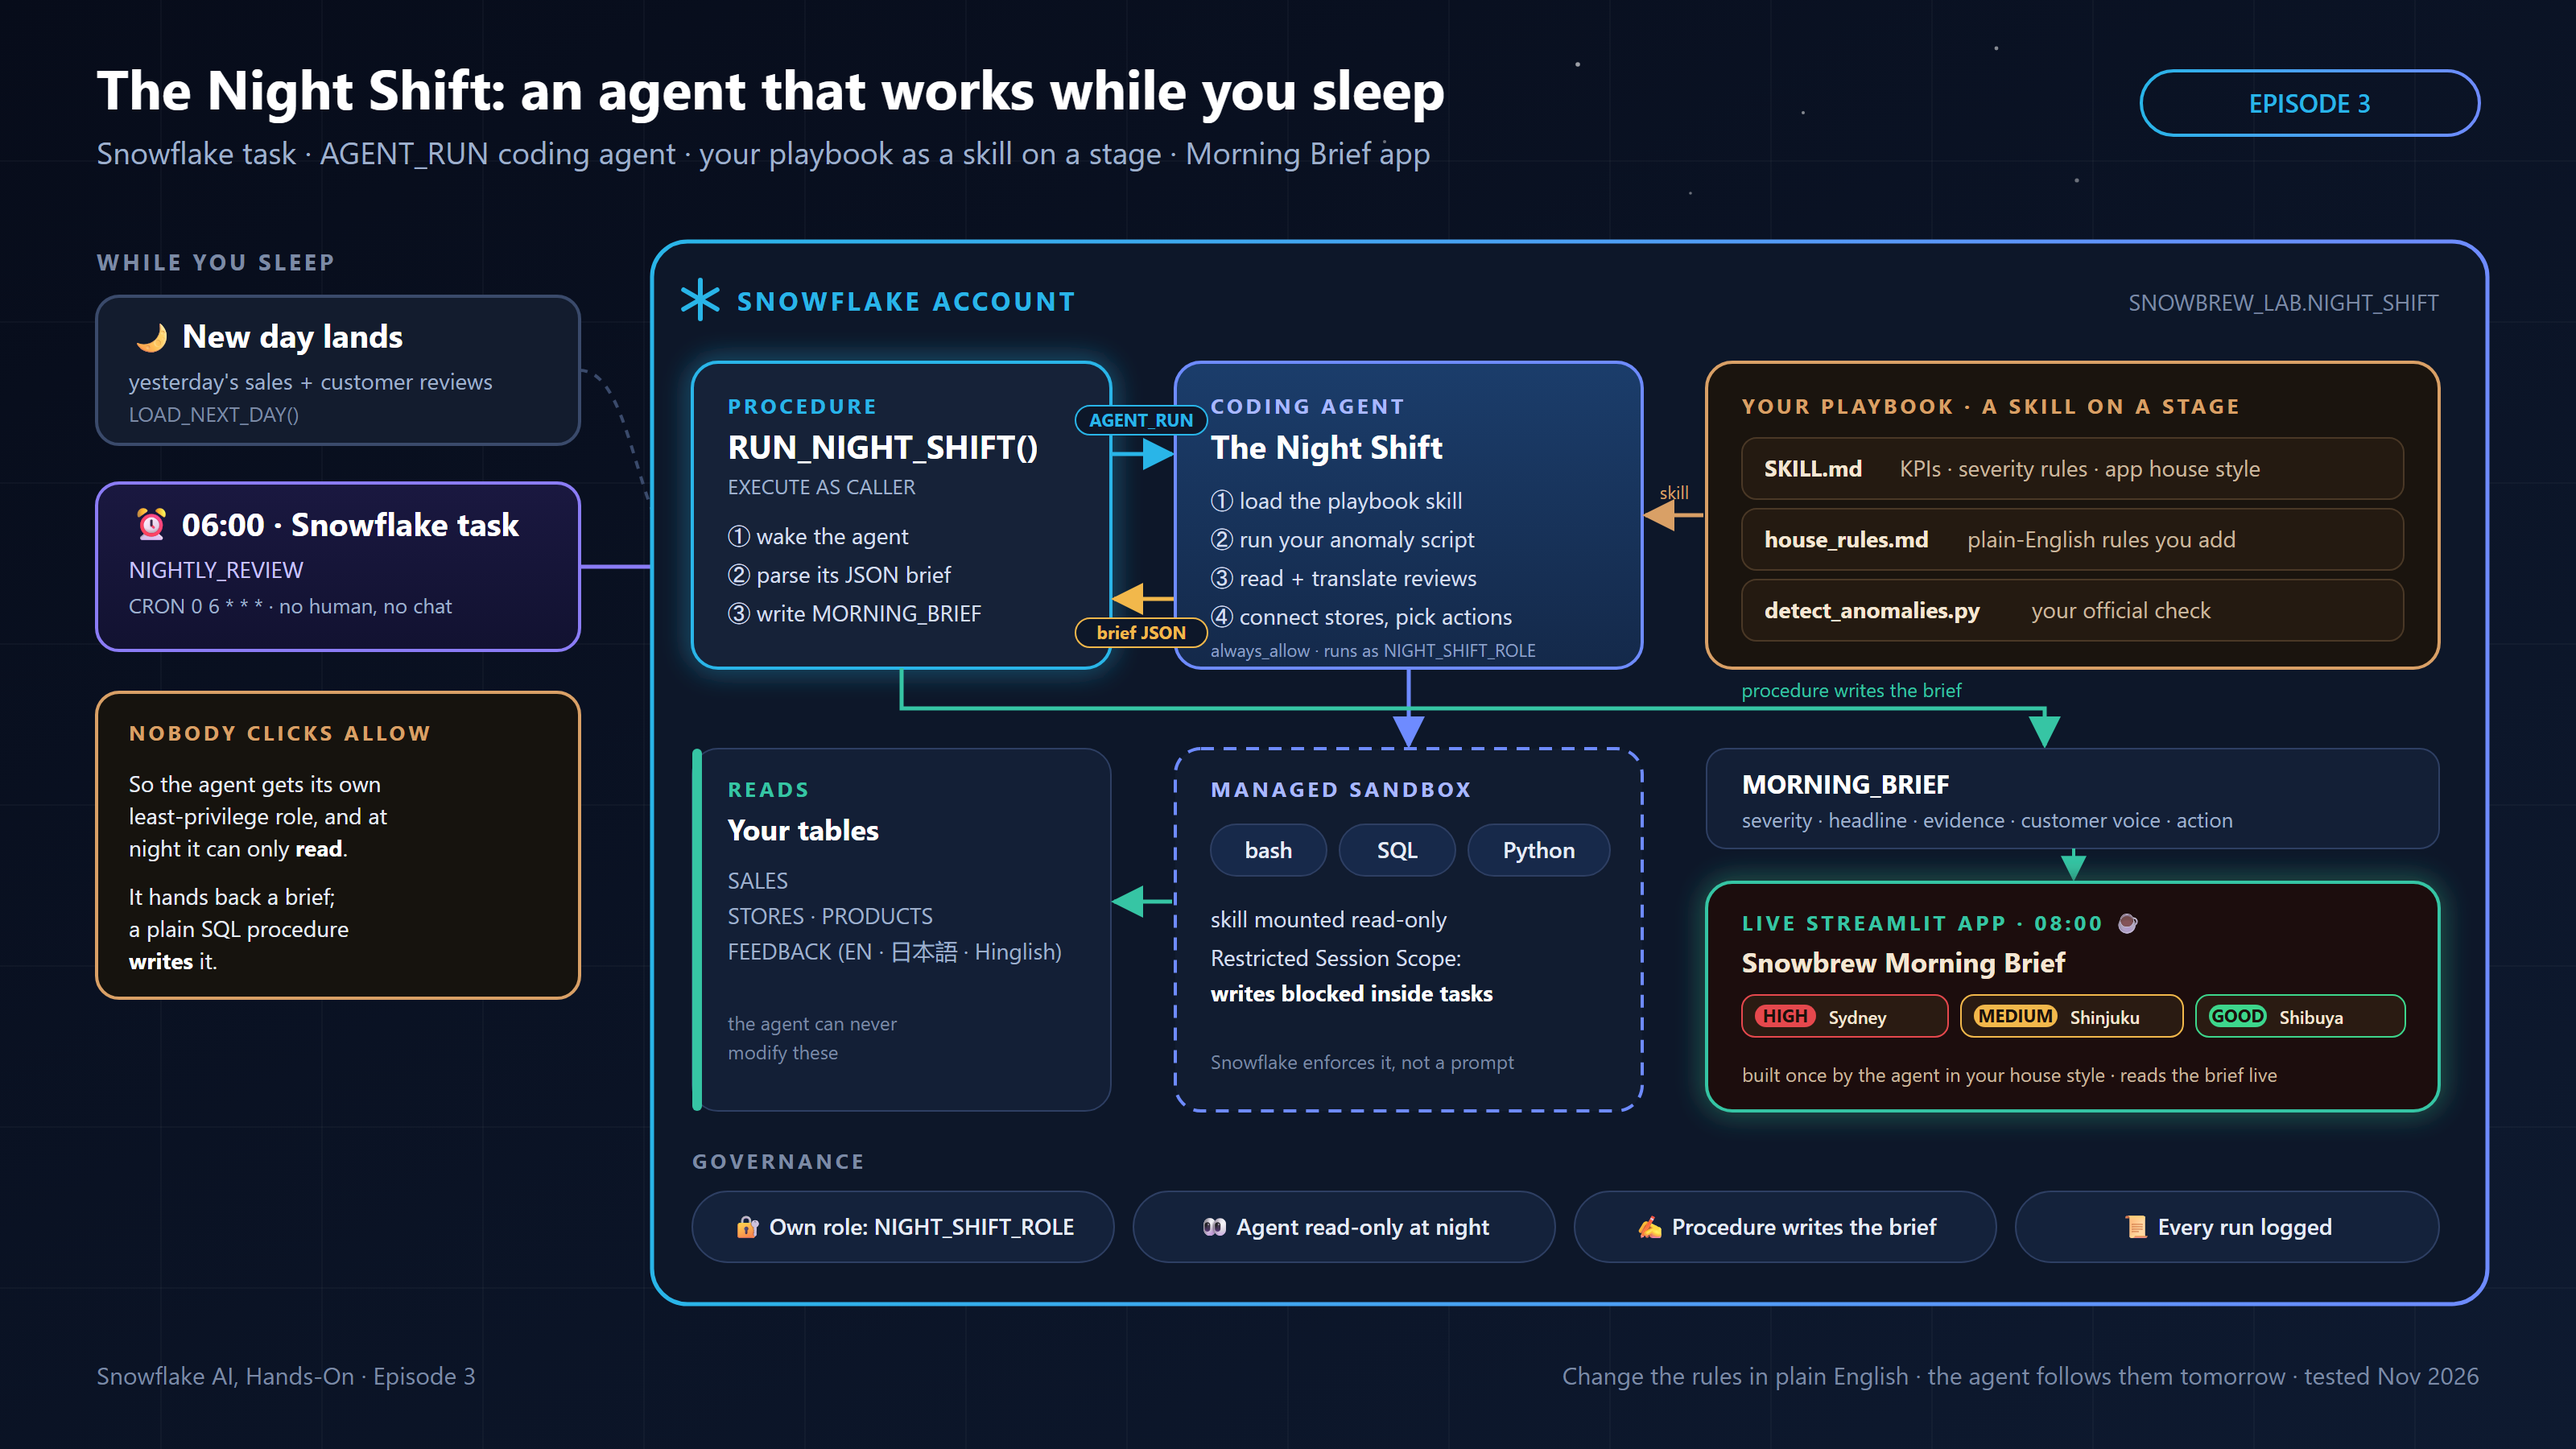
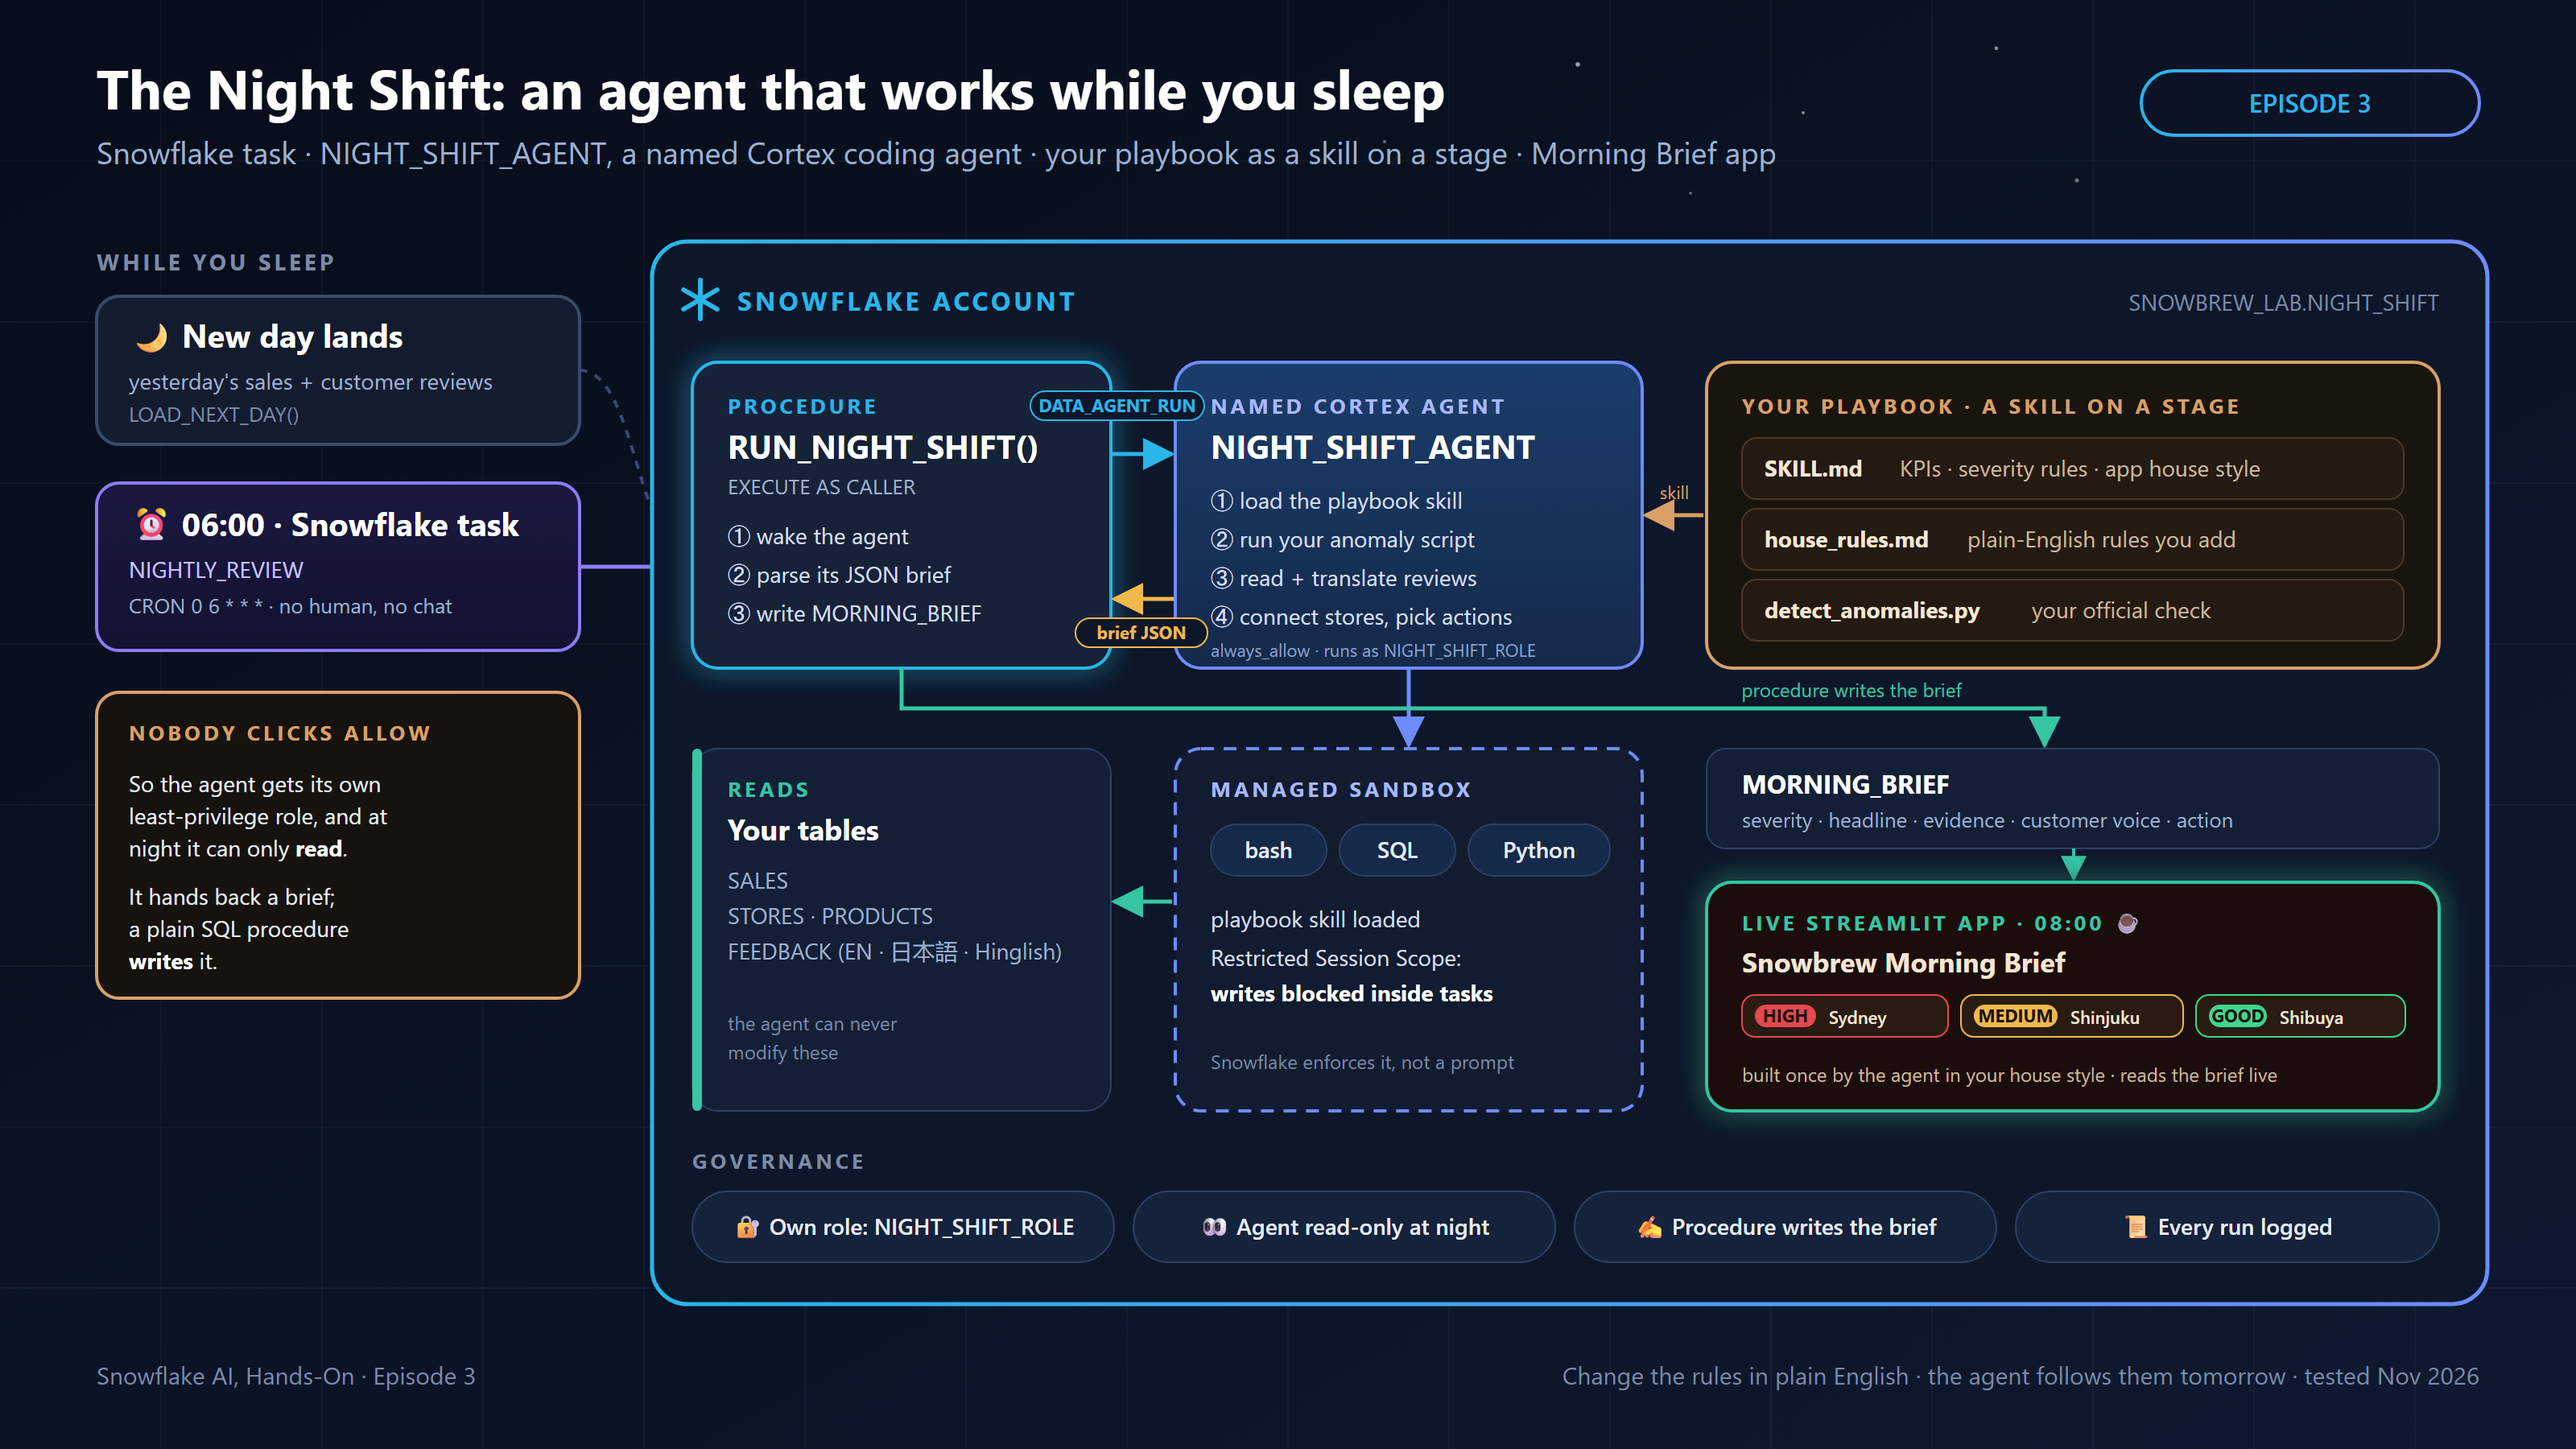
Episode 3: run the Night Shift as a named Cortex Agent (NIGHT_SHIFT_AGENT), tested end to end twice

Changed region(s): [[0.125, 0.0933, 0.6875, 0.1244], [0.4062, 0.2489, 0.5938, 0.3422], [0.4688, 0.6222, 0.5625, 0.6533]]

diff --git a/episodes/03-night-shift/README.md b/episodes/03-night-shift/README.md
@@ -1,6 +1,6 @@
 # Episode 3: The Night Shift
 
-Every night, a Snowflake task wakes up a coding agent. It follows your company **playbook**, a skill stored on a stage, and then:
+Every night, a Snowflake task wakes up `NIGHT_SHIFT_AGENT`, a named Cortex coding agent. It follows your company **playbook**, a skill stored on a stage, and then:
 1. checks the new day with your own anomaly script;
 2. investigates what moved, connecting stores and translating reviews;
 3. writes a morning brief with owners and deadlines;
@@ -14,7 +14,7 @@ There's no chat and nobody clicking: it runs under a locked-down role.
 
 | File | Run where | What it does |
 |---|---|---|
-| [`setup.sql`](setup.sql) | Snowsight worksheet → **Run All** (~2-3 min) | Creates the data, the playbook skill (`SKILL.md` + `detect_anomalies.py`) on a stage, `NIGHT_SHIFT_ROLE`, the procedures and the nightly task. Then it runs night 1 and has the agent build the app. |
+| [`setup.sql`](setup.sql) | Snowsight worksheet → **Run All** (~3 min) | Creates the data, the playbook skill (`SKILL.md` + `detect_anomalies.py`) on a stage, the named agent `NIGHT_SHIFT_AGENT`, `NIGHT_SHIFT_ROLE`, the procedures and the nightly task. Then it runs night 1 and has the agent build the app. |
 | [`cleanup.sql`](cleanup.sql) | Snowsight worksheet | Suspends the task and drops the `NIGHT_SHIFT` schema and role |
 
 ## Quick start
@@ -47,9 +47,9 @@ CoCo Automations also run an agent on a schedule. I'm testing them properly and 
 
 ## Gotchas
 
-- **Owner's-rights procedures remove the coding tools.** Call `AGENT_RUN` from an `EXECUTE AS CALLER` procedure. Otherwise the response warns *"Code execution tools are unavailable when an agent is invoked from an owner's rights stored procedure."*
+- **Owner's-rights procedures removed the coding tools** in my first, inline `AGENT_RUN` version. The final version calls the named agent with `DATA_AGENT_RUN` from an `EXECUTE AS CALLER` procedure. The warning I got was *"Code execution tools are unavailable when an agent is invoked from an owner's rights stored procedure."*
 - **In a task, the agent's own writes are blocked** by Restricted Session Scope (*"Restricted session scope: USER SPECIFIED does not include DELETE access…"*). So the agent only reads and returns the brief as JSON, and the procedure writes it. That's the safer design anyway.
 - **Skills from a stage:** the agent loads the skill and runs the scripts in the skill folder.
 - **Snowflake's docs say `PUT` can't run from a Snowsight worksheet,** so `setup.sql` writes the skill files with a tiny Python procedure (`WRITE_STAGE_FILE`).
 
-**Tested:** 1–8 Nov 2026 · AWS ap-northeast-1 · Enterprise edition · 3 full end-to-end runs (setup 131–156 s) · night 2 via the scheduled task: SUCCEEDED 3 of 3 · house-rule demo: flagged 3 of 3 · cleanup leaves Episodes 1–2 working · budget ~3 credits
+**Tested:** 1–8 Nov 2026 · AWS ap-northeast-1 · Enterprise edition · 5 full end-to-end runs, the last 2 with this exact script (setup 162–186 s) · night 2 via the scheduled task: SUCCEEDED 5 of 5 · house-rule demo: flagged 5 of 5 · cleanup leaves Episodes 1–2 working · budget ~3 credits
